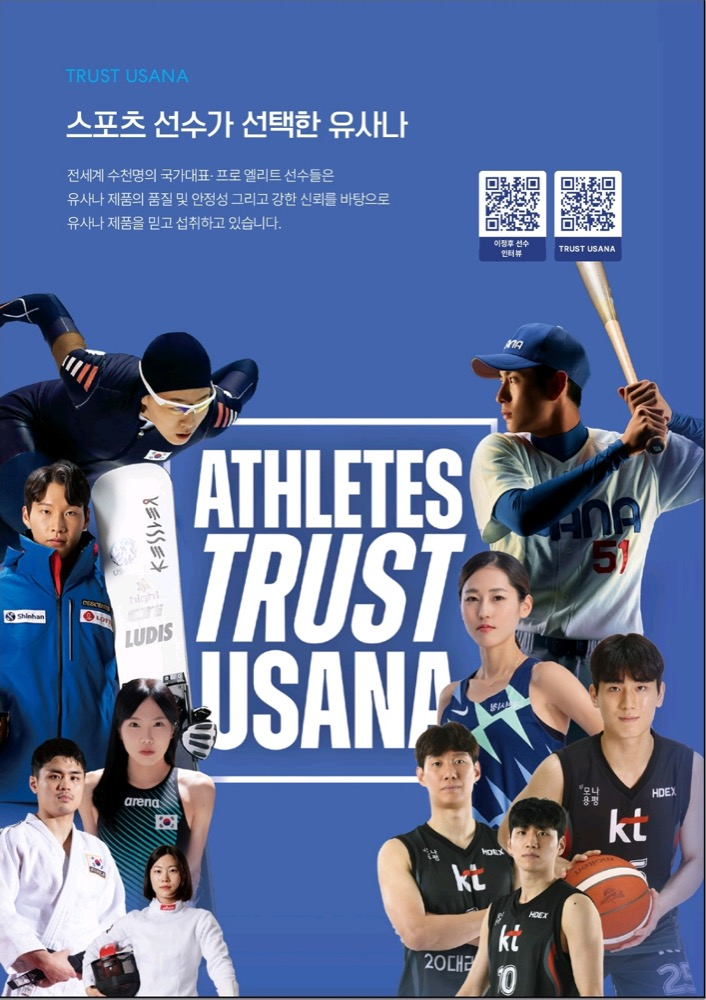
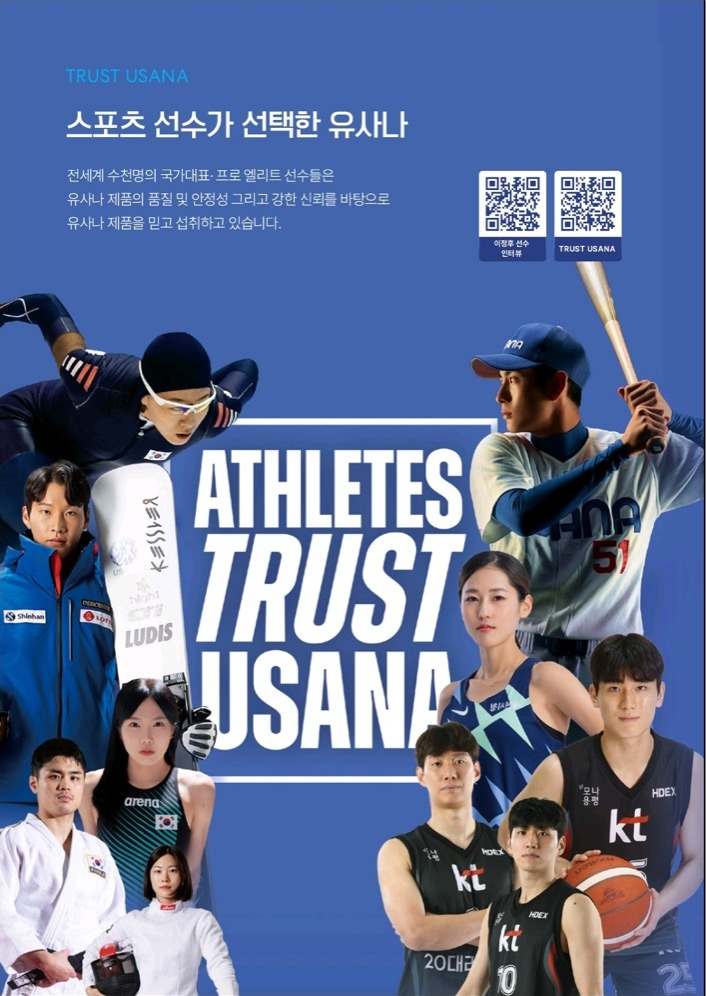
ATHLETES 포스터 이미지 하단 1px 검은 라인 제거(athletes-trust.jpg 하단 4px 크롭, ?v=2 캐시버스트)

diff --git a/index.html b/index.html
@@ -2406,7 +2406,7 @@
       <h2 class="section-title">세계가 선택한 <em>브랜드</em></h2>
 
       <div class="athletes-poster-wrap">
-        <img class="athletes-poster" src="assets/athletes-trust.jpg" alt="ATHLETES TRUST USANA — 세계 정상급 선수들이 선택한 유사나" />
+        <img class="athletes-poster" src="assets/athletes-trust.jpg?v=2" alt="ATHLETES TRUST USANA — 세계 정상급 선수들이 선택한 유사나" />
       </div>
       <div class="athletes-right">
         <p class="athletes-lead">전 세계 정상급 선수단이<br/><strong>유사나를 신뢰합니다.</strong></p>
